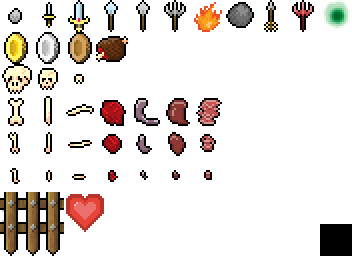
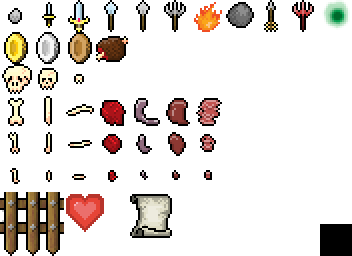
oops hah

Changed region(s): [[0.375, 0.75, 0.5, 0.9375]]

diff --git a/htdocs/js/engine.js b/htdocs/js/engine.js
@@ -623,12 +623,12 @@ horde.Engine.prototype.dealDamage = function (attacker, defender) {
 		// defender has died; assign gold
 		if (defender.role === "hero") {
 
+			/*
+			// NOTE: TODO: I fail! can't get it to work
 			// Draw the hero's death
 			var ctx = this.canvases["display"].getContext("2d");
 			defender.spriteX = 256;
 
-			// NOTE: TODO: I fail! can't get it to work
-			/*
 			this.drawObjects(ctx);
 			ctx.drawImage(
 				this.images.getImage(defender.spriteSheet),
@@ -667,11 +667,14 @@ horde.Engine.prototype.dealDamage = function (attacker, defender) {
 			}
 			
 			// Random chance loot!
-			if (horde.randomRange(1, 10) > 7) {
+			if (horde.randomRange(1, 10) > 6) {
 				var lootType = "item_coin";
 				switch (horde.randomRange(1, 4)) {
 					case 3:
-						lootType = "item_food";
+						var p = this.getPlayerObject();
+						if (p.wounds) {
+							lootType = "item_food";
+						}
 						break;
 					case 4:
 						lootType = "item_weapon";
@@ -1005,7 +1008,11 @@ horde.Engine.prototype.drawObjects = function (ctx) {
 
 		if (o.role === "powerup_weapon") {
 			ctx.fillStyle = "rgb(255,0,255)";
-			ctx.fillRect(-(o.size.width / 2), -(o.size.height / 2), o.size.width, o.size.height);
+			// Draw a scroll behind the weapon?
+			ctx.drawImage(
+				this.images.getImage("objects"),
+				128, 196, 48, 48, -26, -20, 48, 48
+			);
 		}
 		
 		ctx.drawImage(
